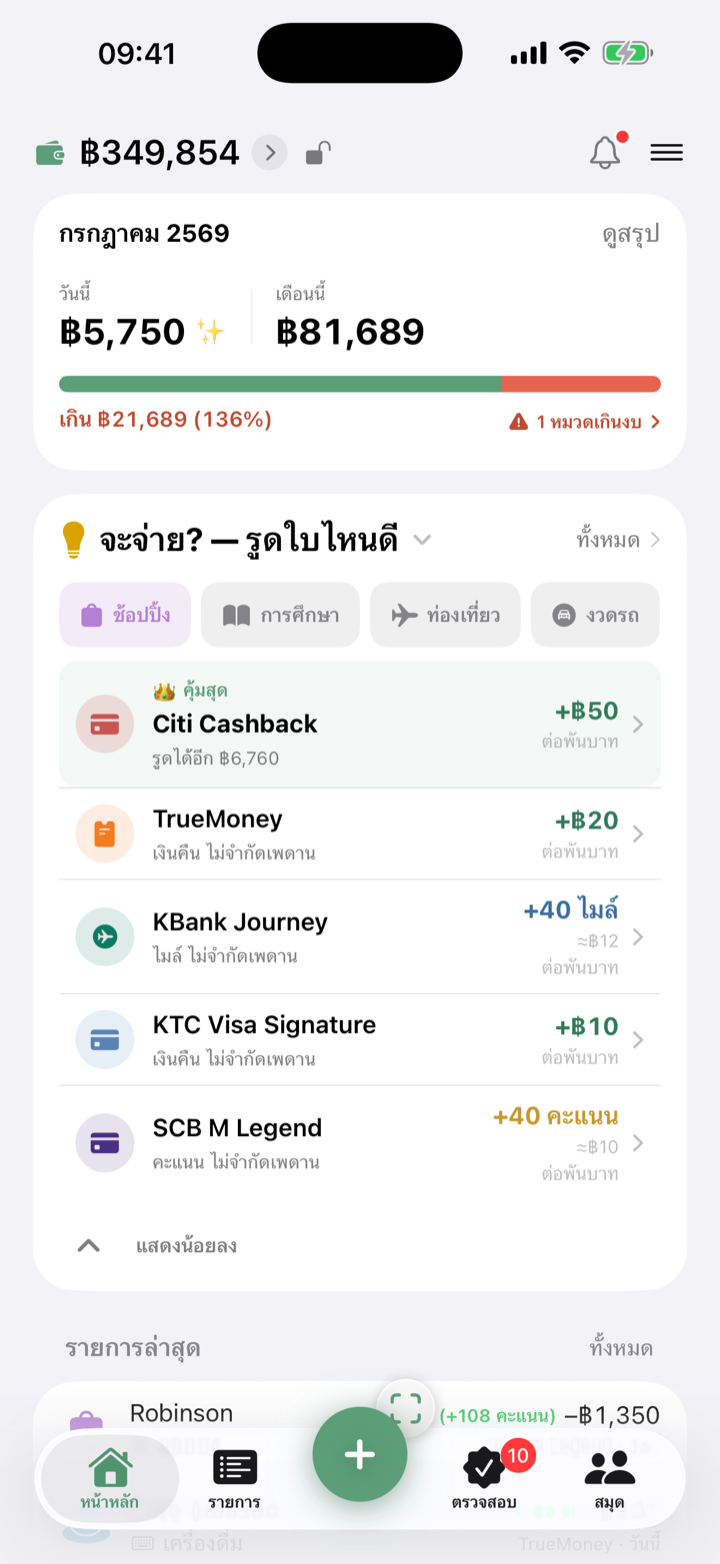
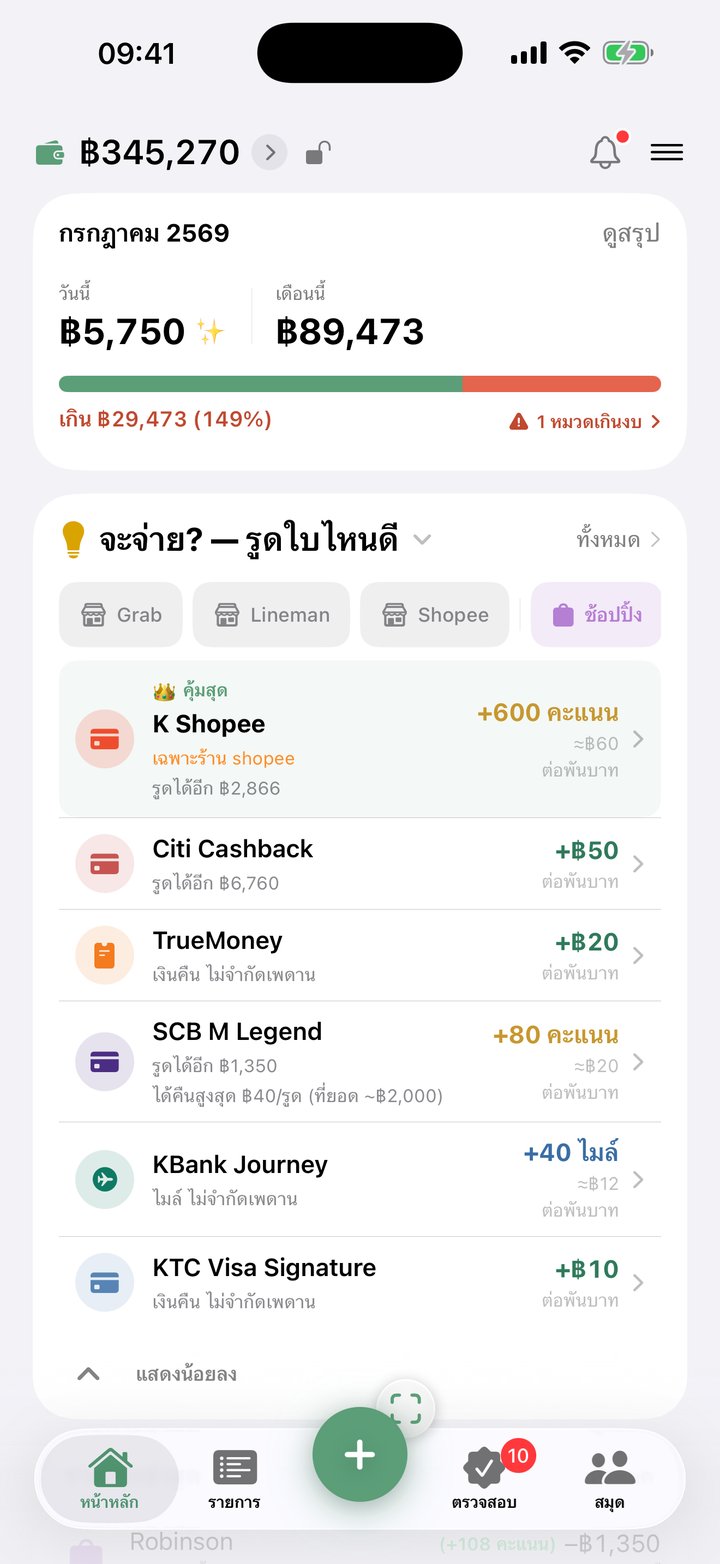
merchant rules: landing (co-brand section/FAQ/JSON-LD + hero มีชิปร้าน) + help Q ตั้งกฎเฉพาะร้าน

diff --git a/index.html b/index.html
@@ -360,7 +360,7 @@
     .blob,.phone-stage{animation:none!important}
   }
 </style>
-<script type="application/ld+json">{"@context": "https://schema.org", "@type": "FAQPage", "mainEntity": [{"@type": "Question", "name": "DooSpend อ่านข้อมูลจากธนาคารของฉันไหม?", "acceptedAnswer": {"@type": "Answer", "text": "ไม่เลย — DooSpend ไม่เชื่อมบัญชีธนาคาร ไม่ขอรหัส และไม่อ่าน SMS ข้อมูลรายจ่ายอยู่ในเครื่องคุณและ iCloud ส่วนตัวของคุณเท่านั้น การจดจากสลิปคือคุณเป็นคนถ่าย/แชร์ภาพเข้ามาเอง"}}, {"@type": "Question", "name": "AI จดให้ทำงานยังไง แล้วปลอดภัยไหม?", "acceptedAnswer": {"@type": "Answer", "text": "คุณถ่ายสลิปหรือพูด แล้ว AI ช่วยอ่านยอด/ร้าน/หมวดให้ ภาพส่งไปประมวลผลผ่านตัวกลางแบบไม่ผูกกับตัวตนคุณ (ใช้รหัสอุปกรณ์แบบสุ่มเพื่อนับโควตาเท่านั้น) แล้วผลกลับมาให้คุณยืนยันก่อนบันทึกเสมอ"}}, {"@type": "Question", "name": "\"ผู้ช่วยบัตร\" ต่างจากแอปสะสมแต้มยังไง?", "acceptedAnswer": {"@type": "Answer", "text": "DooSpend ไม่ได้เก็บฐานข้อมูลโปรบัตร — คุณตั้งกฎรางวัลของบัตรตัวเองครั้งเดียว แล้วแอปจะจัดอันดับให้ว่าจ่ายหมวดนี้ควรรูดใบไหนคุ้มสุด ณ ตอนนั้น รวมถึงเตือนก่อนเต็มเพดานเงินคืน/แต้ม"}}, {"@type": "Question", "name": "ใช้ฟรีได้จริงไหม ต้องจ่ายตรงไหน?", "acceptedAnswer": {"@type": "Answer", "text": "จดรายจ่าย ตั้งกฎบัตร และติดตามแต้ม/เงินคืน ใช้ฟรี · Pro (฿69/เดือน หรือ ฿590/ปี) ปลดผู้ช่วยบัตรครบทุกหมวด, การเด้งเตือนบัตรคุ้มสุดอัตโนมัติ, AI 150 ครั้ง/เดือน, นำเข้า statement และสมุดร่วมจ่าย"}}, {"@type": "Question", "name": "ใช้กับ iPhone (iOS) ได้อย่างเดียวไหม? มีเวอร์ชัน Android ไหม?", "acceptedAnswer": {"@type": "Answer", "text": "ตอนนี้ DooSpend พัฒนาสำหรับ iPhone (iOS 18 ขึ้นไป) โดยเฉพาะ เพื่อให้ลื่นและเชื่อมกับ iCloud ส่วนตัวของคุณได้ดีที่สุด — ยังไม่มีเวอร์ชัน Android"}}, {"@type": "Question", "name": "ย้ายข้อมูลจากแอปรายรับรายจ่ายอื่น (Money Manager, Spendee) มาได้ไหม?", "acceptedAnswer": {"@type": "Answer", "text": "ได้ — นำเข้าไฟล์ CSV / Excel ที่ส่งออกจากแอปเดิม (Money Manager, Spendee, MoneyLover ฯลฯ) ได้ฟรี หรือนำเข้า statement บัตรเครดิต (PDF) ให้ AI แตกเป็นรายการทั้งใบ ทุกรายการเข้าคิว “ตรวจสอบ” ให้กดยืนยันก่อนบันทึกเสมอ"}}]}</script>
+<script type="application/ld+json">{"@context": "https://schema.org", "@type": "FAQPage", "mainEntity": [{"@type": "Question", "name": "DooSpend อ่านข้อมูลจากธนาคารของฉันไหม?", "acceptedAnswer": {"@type": "Answer", "text": "ไม่เลย — DooSpend ไม่เชื่อมบัญชีธนาคาร ไม่ขอรหัส และไม่อ่าน SMS ข้อมูลรายจ่ายอยู่ในเครื่องคุณและ iCloud ส่วนตัวของคุณเท่านั้น การจดจากสลิปคือคุณเป็นคนถ่าย/แชร์ภาพเข้ามาเอง"}}, {"@type": "Question", "name": "AI จดให้ทำงานยังไง แล้วปลอดภัยไหม?", "acceptedAnswer": {"@type": "Answer", "text": "คุณถ่ายสลิปหรือพูด แล้ว AI ช่วยอ่านยอด/ร้าน/หมวดให้ ภาพส่งไปประมวลผลผ่านตัวกลางแบบไม่ผูกกับตัวตนคุณ (ใช้รหัสอุปกรณ์แบบสุ่มเพื่อนับโควตาเท่านั้น) แล้วผลกลับมาให้คุณยืนยันก่อนบันทึกเสมอ"}}, {"@type": "Question", "name": "\"ผู้ช่วยบัตร\" ต่างจากแอปสะสมแต้มยังไง?", "acceptedAnswer": {"@type": "Answer", "text": "DooSpend ไม่ได้เก็บฐานข้อมูลโปรบัตร — คุณตั้งกฎรางวัลของบัตรตัวเองครั้งเดียว แล้วแอปจะจัดอันดับให้ว่าจ่ายหมวดนี้ควรรูดใบไหนคุ้มสุด ณ ตอนนั้น รวมถึงเตือนก่อนเต็มเพดานเงินคืน/แต้ม"}}, {"@type": "Question", "name": "บัตร co-brand อย่างบัตร Shopee ที่ให้แต้มเฉพาะร้าน ใช้ได้ไหม?", "acceptedAnswer": {"@type": "Answer", "text": "ได้ — ตั้งกฎแบบ เฉพาะร้าน (เช่น shopee, lazada) บัตรนั้นจะได้แต้มพิเศษเฉพาะเมื่อจดรายการร้านนั้นจริง และตั้งกฎ ยกเว้นร้าน ได้ด้วย เช่น โปรร้านอาหารที่ไม่รวม delivery (Grab, LINE MAN) — หน้าแรกมีชิปร้านให้แตะ ดูเลยว่าร้านนี้รูดใบไหนคุ้มสุด"}}, {"@type": "Question", "name": "ใช้ฟรีได้จริงไหม ต้องจ่ายตรงไหน?", "acceptedAnswer": {"@type": "Answer", "text": "จดรายจ่าย ตั้งกฎบัตร และติดตามแต้ม/เงินคืน ใช้ฟรี · Pro (฿69/เดือน หรือ ฿590/ปี) ปลดผู้ช่วยบัตรครบทุกหมวด, การเด้งเตือนบัตรคุ้มสุดอัตโนมัติ, AI 150 ครั้ง/เดือน, นำเข้า statement และสมุดร่วมจ่าย"}}, {"@type": "Question", "name": "ใช้กับ iPhone (iOS) ได้อย่างเดียวไหม? มีเวอร์ชัน Android ไหม?", "acceptedAnswer": {"@type": "Answer", "text": "ตอนนี้ DooSpend พัฒนาสำหรับ iPhone (iOS 18 ขึ้นไป) โดยเฉพาะ เพื่อให้ลื่นและเชื่อมกับ iCloud ส่วนตัวของคุณได้ดีที่สุด — ยังไม่มีเวอร์ชัน Android"}}, {"@type": "Question", "name": "ย้ายข้อมูลจากแอปรายรับรายจ่ายอื่น (Money Manager, Spendee) มาได้ไหม?", "acceptedAnswer": {"@type": "Answer", "text": "ได้ — นำเข้าไฟล์ CSV / Excel ที่ส่งออกจากแอปเดิม (Money Manager, Spendee, MoneyLover ฯลฯ) ได้ฟรี หรือนำเข้า statement บัตรเครดิต (PDF) ให้ AI แตกเป็นรายการทั้งใบ ทุกรายการเข้าคิว “ตรวจสอบ” ให้กดยืนยันก่อนบันทึกเสมอ"}}]}</script>
 </head>
 <body>
 
@@ -480,11 +480,12 @@
     <div class="spot">
       <div class="spot-copy reveal">
         <span class="eyebrow">ผู้ช่วยบัตรเครดิต</span>
-        <h2>เลือกหมวด รู้เลยว่ารูดใบไหนคุ้มสุด</h2>
-        <p>ตั้งกฎรางวัลของบัตรเครดิตคุณครั้งเดียว แล้ว DooSpend จัดอันดับให้ว่าจ่ายหมวดนี้ควรรูดใบไหน — เห็นทั้งเงินคืน แต้มสะสม และไมล์ พร้อมบอกว่ารูดได้อีกเท่าไหร่ก่อนเต็มเพดาน</p>
+        <h2>เลือกหมวดหรือร้าน รู้เลยว่ารูดใบไหนคุ้มสุด</h2>
+        <p>ตั้งกฎรางวัลของบัตรเครดิตคุณครั้งเดียว แล้ว DooSpend จัดอันดับให้ว่าจ่ายหมวดนี้ควรรูดใบไหน — เห็นทั้งเงินคืน แต้มสะสม และไมล์ พร้อมบอกว่ารูดได้อีกเท่าไหร่ก่อนเต็มเพดาน รองรับบัตร co-brand ที่ให้แต้มเฉพาะร้าน เช่น บัตร Shopee — แตะร้านจากหน้าแรก ดูใบคุ้มสุดของร้านนั้นได้เลย</p>
         <ul class="flist">
-          <li><span class="tick">✓</span> เทียบทุกใบในกระเป๋าตามหมวดที่กำลังจ่าย</li>
+          <li><span class="tick">✓</span> เทียบทุกใบในกระเป๋าตามหมวดหรือร้านที่กำลังจ่าย</li>
           <li><span class="tick">✓</span> รองรับเงินคืน · คะแนน · ไมล์ ในที่เดียว</li>
+          <li><span class="tick">✓</span> บัตร co-brand เฉพาะร้าน (Shopee, Lazada) + กฎยกเว้นร้าน (โปรอาหารไม่รวม delivery)</li>
           <li><span class="tick">✓</span> เตือนก่อน reward เต็มเพดาน จะได้ไม่พลาด</li>
         </ul>
       </div>
@@ -500,6 +501,11 @@
             <span class="cav" style="background:rgba(221,159,50,.16)">💳</span>
             <span class="cinfo"><b>SCB M Legend</b><small>อาหาร 3% เงินคืน</small></span>
             <span class="cval" style="color:var(--green)">+฿30<small>ต่อพัน</small></span>
+          </div>
+          <div class="crow">
+            <span class="cav" style="background:rgba(238,77,45,.14)">💳</span>
+            <span class="cinfo"><b>K Shopee</b><small style="color:#E8890C">🏪 เฉพาะร้าน Shopee</small></span>
+            <span class="cval" style="color:var(--green)">+80 คะแนน<small>ต่อพัน</small></span>
           </div>
         </div>
       </div>
@@ -642,6 +648,7 @@
         <details class="reveal"><summary>DooSpend อ่านข้อมูลจากธนาคารของฉันไหม?<span class="pl">＋</span></summary><p>ไม่เลย — DooSpend ไม่เชื่อมบัญชีธนาคาร ไม่ขอรหัส และไม่อ่าน SMS ข้อมูลรายจ่ายอยู่ในเครื่องคุณและ iCloud ส่วนตัวของคุณเท่านั้น การจดจากสลิปคือคุณเป็นคนถ่าย/แชร์ภาพเข้ามาเอง</p></details>
         <details class="reveal"><summary>AI จดให้ทำงานยังไง แล้วปลอดภัยไหม?<span class="pl">＋</span></summary><p>คุณถ่ายสลิปหรือพูด แล้ว AI ช่วยอ่านยอด/ร้าน/หมวดให้ ภาพส่งไปประมวลผลผ่านตัวกลางแบบไม่ผูกกับตัวตนคุณ (ใช้รหัสอุปกรณ์แบบสุ่มเพื่อนับโควตาเท่านั้น) แล้วผลกลับมาให้คุณยืนยันก่อนบันทึกเสมอ</p></details>
         <details class="reveal"><summary>"ผู้ช่วยบัตร" ต่างจากแอปสะสมแต้มยังไง?<span class="pl">＋</span></summary><p>DooSpend ไม่ได้เก็บฐานข้อมูลโปรบัตร — คุณตั้งกฎรางวัลของบัตรตัวเองครั้งเดียว แล้วแอปจะจัดอันดับให้ว่าจ่ายหมวดนี้ควรรูดใบไหนคุ้มสุด ณ ตอนนั้น รวมถึงเตือนก่อนเต็มเพดานเงินคืน/แต้ม</p></details>
+        <details class="reveal"><summary>บัตร co-brand อย่างบัตร Shopee ที่ให้แต้มเฉพาะร้าน ใช้ได้ไหม?<span class="pl">＋</span></summary><p>ได้ — ตั้งกฎแบบ "เฉพาะร้าน" (เช่น shopee, lazada) บัตรนั้นจะได้แต้มพิเศษเฉพาะเมื่อจดรายการร้านนั้นจริง และตั้งกฎ "ยกเว้นร้าน" ได้ด้วย เช่น โปรร้านอาหารที่ไม่รวม delivery (Grab, LINE MAN) — หน้าแรกจะมีชิปร้านให้แตะ ดูเลยว่าร้านนี้รูดใบไหนคุ้มสุด</p></details>
         <details class="reveal"><summary>ใช้ฟรีได้จริงไหม ต้องจ่ายตรงไหน?<span class="pl">＋</span></summary><p>จดรายจ่าย ตั้งกฎบัตร และติดตามแต้ม/เงินคืน ใช้ฟรี · Pro (฿69/เดือน หรือ ฿590/ปี) ปลดผู้ช่วยบัตรครบทุกหมวด, การเด้งเตือนบัตรคุ้มสุดอัตโนมัติ, AI 150 ครั้ง/เดือน, นำเข้า statement และสมุดร่วมจ่าย</p></details>
         <details class="reveal"><summary>ใช้กับ iPhone (iOS) ได้อย่างเดียวไหม? มีเวอร์ชัน Android ไหม?<span class="pl">＋</span></summary><p>ตอนนี้ DooSpend พัฒนาสำหรับ iPhone (iOS 18 ขึ้นไป) โดยเฉพาะ เพื่อให้ลื่นและเชื่อมกับ iCloud ส่วนตัวของคุณได้ดีที่สุด — ยังไม่มีเวอร์ชัน Android</p></details>
         <details class="reveal"><summary>ย้ายข้อมูลจากแอปรายรับรายจ่ายอื่น (Money Manager, Spendee) มาได้ไหม?<span class="pl">＋</span></summary><p>ได้ — นำเข้าไฟล์ CSV / Excel ที่ส่งออกจากแอปเดิม (Money Manager, Spendee, MoneyLover ฯลฯ) ได้ฟรี หรือนำเข้า statement บัตรเครดิต (PDF) ให้ AI แตกเป็นรายการทั้งใบ ทุกรายการเข้าคิว “ตรวจสอบ” ให้กดยืนยันก่อนบันทึกเสมอ</p></details>

diff --git a/help.html b/help.html
@@ -218,6 +218,9 @@
 <h3>Q: Best Card แนะนำจากข้อมูลโปรจริงไหม?</h3>
 <p>คำนวณจาก "กฎเก็บแต้ม/เงินคืน" ที่คุณตั้งเองให้แต่ละบัตร (หมวด, %, เพดาน, ยอดขั้นต่ำ) — ไม่ใช่ฐานข้อมูลโปรสดของธนาคาร ดังนั้นถ้าโปรเปลี่ยน อย่าลืมอัปเดตกฎ แอปจะอธิบายเหตุผลทุกครั้งให้คุณตรวจสอบเองได้</p>
 
+<h3>Q: บัตร co-brand ที่ให้แต้มเฉพาะร้าน (เช่น บัตร Shopee) ตั้งกฎยังไง?</h3>
+<p>ตอนเพิ่ม/แก้กฎ มีช่อง "ร้านที่ใช้กฎ" อยู่ใต้ตัวเลือกหมวด — ใส่คำที่อยู่ในชื่อร้าน (เช่น shopee) คั่นด้วยจุลภาค แล้วเลือกโหมด <strong>"เฉพาะร้านนี้"</strong> = ได้แต้มเฉพาะเมื่อจดรายการร้านนั้น หรือ <strong>"ยกเว้นร้านนี้"</strong> = ได้ทุกร้านยกเว้นที่ใส่ (เช่น โปรร้านอาหารที่ไม่รวม Grab/LINE MAN) · การจับคู่ดูจากช่อง "ร้านค้า" ของรายการ — จดชื่อร้านไว้ด้วยถึงจะได้แต้มพิเศษ ตอนจดแอปมีชิปชื่อร้านจากกฎให้แตะ ไม่ต้องพิมพ์เอง</p>
+
 <h3>Q: ยกเลิก Pro ยังไง?</h3>
 <p>iOS Settings → Apple ID (ชื่อคุณบนสุด) → Subscriptions → DooSpend Pro → ยกเลิก ใช้ได้จนครบรอบเดือนที่จ่ายไปแล้ว</p>
 
